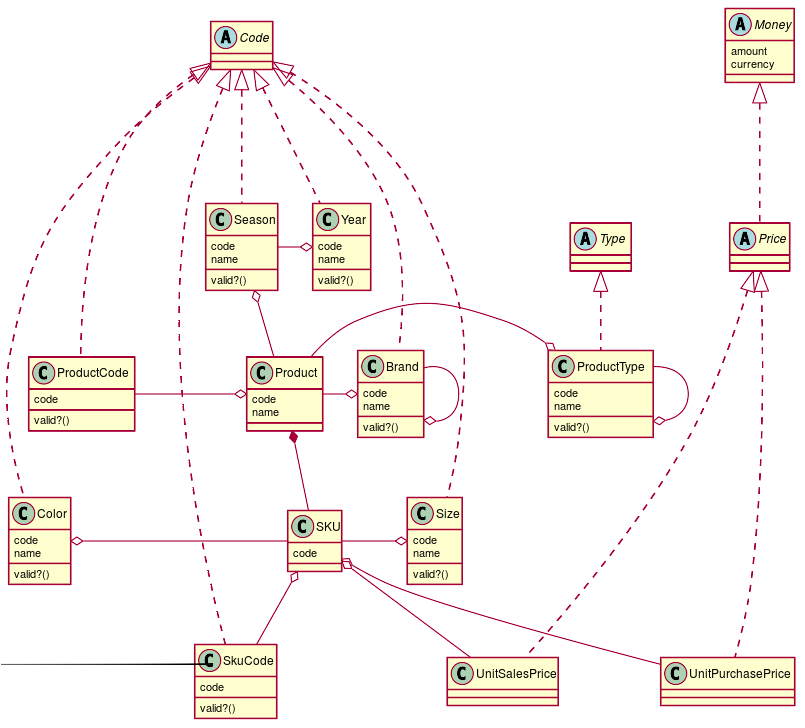
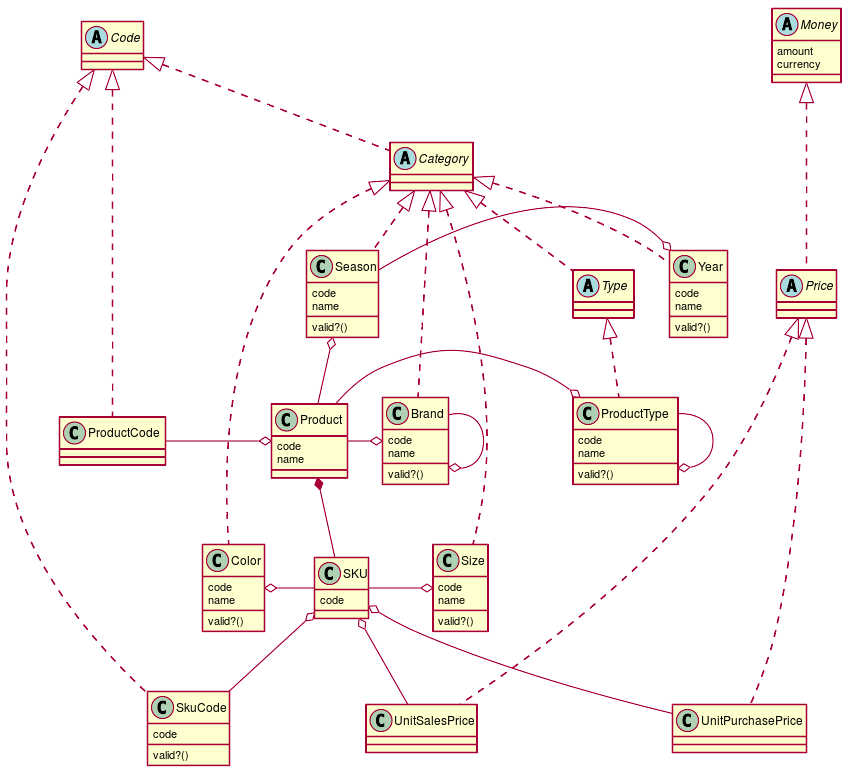
アパレル業務における商品設計 #EFROR-77
・分類種別値オブジェクト導入

diff --git a/spec/factories/sales_modeling_type3_category_classes.rb b/spec/factories/sales_modeling_type3_category_classes.rb
@@ -1,26 +1,26 @@
 FactoryGirl.define do
   factory :year_category_class, class: 'SalesModeling::Type3::CategoryClass' do
-    code '1'
+    code SalesModeling::Type3::ValueObject::Year.new('', '').category_class_code
     name '年度'
   end
   factory :season_category_class, class: 'SalesModeling::Type3::CategoryClass' do
-    code '2'
+    code SalesModeling::Type3::ValueObject::Season.new('', '').category_class_code
     name 'シーズン'
   end
   factory :product_type_category_class, class: 'SalesModeling::Type3::CategoryClass' do
-    code '3'
+    code SalesModeling::Type3::ValueObject::ProductType.new('', '').category_class_code
     name '商品区分'
   end
   factory :brand_category_class, class: 'SalesModeling::Type3::CategoryClass' do
-    code '4'
+    code SalesModeling::Type3::ValueObject::Brand.new('', '').category_class_code
     name 'ブランド'
   end
   factory :color_category_class, class: 'SalesModeling::Type3::CategoryClass' do
-    code '5'
+    code SalesModeling::Type3::ValueObject::Color.new('', '').category_class_code
     name '色'
   end
   factory :size_category_class, class: 'SalesModeling::Type3::CategoryClass' do
-    code '6'
+    code SalesModeling::Type3::ValueObject::Size.new('', '').category_class_code
     name 'サイズ'
   end
 end

diff --git a/app/repos/sales_modeling/category_classes_repo.rb b/app/repos/sales_modeling/category_classes_repo.rb
@@ -1,13 +1,25 @@
+# frozen_string_literal: true
+
 module SalesModeling
   class CategoryClassesRepo
     include ::SalesModeling::Type3
 
     def self.select_by_category(category)
+      category_class_code = category.category_class_code
+
       category = SalesModeling::Type3::Category.where(
         code: category.code,
         name: category.name
       ).first_or_create
       category.save!
+
+      unless category_class_code.nil?
+        category_class = SalesModeling::Type3::CategoryClass.where(
+          code: category_class_code
+        ).first_or_create
+        category.update!(sales_modeling_type3_category_class: category_class)
+      end
+
       category
     end
   end

diff --git a/app/models/sales_modeling/type3/product.rb b/app/models/sales_modeling/type3/product.rb
@@ -51,7 +51,7 @@ class SalesModeling::Type3::Product < ApplicationRecord
     self.season_category = SalesModeling::CategoryClassesRepo.select_by_category(season)
 
     unless season_category.parent_category.nil?
-      year = season_category.parent_category
+      year = SalesModeling::Type3::ValueObject::Season.new(season_category.parent_category.code, season_category.parent_category.name)
       self.year_category = SalesModeling::CategoryClassesRepo.select_by_category(year)
     end
   end

diff --git a/app/models/sales_modeling/type3/value_object/season.rb b/app/models/sales_modeling/type3/value_object/season.rb
@@ -1,3 +1,8 @@
 class SalesModeling::Type3::ValueObject::Season
-  include SalesModeling::Code
+  include SalesModeling::Category
+  CATEGORY_CLASS_CODE = '2'
+
+  def category_class_code
+    CATEGORY_CLASS_CODE.rjust(CODE_LENGTH,'0')
+  end
 end

diff --git a/app/models/sales_modeling/type3/value_object/brand.rb b/app/models/sales_modeling/type3/value_object/brand.rb
@@ -1,3 +1,8 @@
 class SalesModeling::Type3::ValueObject::Brand
-  include SalesModeling::Code
+  include SalesModeling::Category
+  CATEGORY_CLASS_CODE = '4'
+
+  def category_class_code
+    CATEGORY_CLASS_CODE.rjust(CODE_LENGTH,'0')
+  end
 end

diff --git a/app/models/sales_modeling/type3/value_object/color.rb b/app/models/sales_modeling/type3/value_object/color.rb
@@ -1,3 +1,8 @@
 class SalesModeling::Type3::ValueObject::Color
-  include SalesModeling::Code
+  include SalesModeling::Category
+  CATEGORY_CLASS_CODE = '5'
+
+  def category_class_code
+    CATEGORY_CLASS_CODE.rjust(CODE_LENGTH,'0')
+  end
 end

diff --git a/app/models/sales_modeling/type3/value_object/size.rb b/app/models/sales_modeling/type3/value_object/size.rb
@@ -1,3 +1,8 @@
 class SalesModeling::Type3::ValueObject::Size
-  include SalesModeling::Code
+  include SalesModeling::Category
+  CATEGORY_CLASS_CODE = '6'
+
+  def category_class_code
+    CATEGORY_CLASS_CODE.rjust(CODE_LENGTH,'0')
+  end
 end

diff --git a/app/models/sales_modeling/type3/value_object/year.rb b/app/models/sales_modeling/type3/value_object/year.rb
@@ -1,3 +1,8 @@
 class SalesModeling::Type3::ValueObject::Year
-  include SalesModeling::Code
+  include SalesModeling::Category
+  CATEGORY_CLASS_CODE = '1'
+
+  def category_class_code
+    CATEGORY_CLASS_CODE.rjust(CODE_LENGTH,'0')
+  end
 end

diff --git a/app/models/sales_modeling/type3/value_object/product_type.rb b/app/models/sales_modeling/type3/value_object/product_type.rb
@@ -1,3 +1,8 @@
 class SalesModeling::Type3::ValueObject::ProductType
   include SalesModeling::Type
+  CATEGORY_CLASS_CODE = '3'
+
+  def category_class_code
+    CATEGORY_CLASS_CODE.rjust(CODE_LENGTH,'0')
+  end
 end

diff --git a/app/models/concerns/sales_modeling/category.rb b/app/models/concerns/sales_modeling/category.rb
@@ -1,0 +1,10 @@
+module SalesModeling
+  module Category
+    include SalesModeling::Code
+    extend ActiveSupport::Concern
+    CATEGORY_CLASS_CODE = '0'
+
+    def category_class_code
+    end
+  end
+end

diff --git a/app/models/concerns/sales_modeling/type.rb b/app/models/concerns/sales_modeling/type.rb
@@ -1,5 +1,6 @@
 module SalesModeling
   module Type
+    include SalesModeling::Category
     extend ActiveSupport::Concern
     attr_reader :code, :name
     CODE_LENGTH = 2

diff --git a/docs/dev/sales_modeling/type3_product_.md b/docs/dev/sales_modeling/type3_product_.md
@@ -13,27 +13,27 @@ SalesModeling
 + 同じ商品でも「サイズ」と「カラー」はSKU（ストックキーピングユニット）として管理することが多い
 ### 品番で管理
   
-|年度   |       | シーズン |    |
-|:----:|:----: |:----:   |:----:|
-|     | 2017 |         |春夏物||
-|     |      |         |秋冬物|
-|     | 2018 |         |春夏物||
-|     |      |         |秋冬物|
+|年度   | シーズン |
+|:----:|:----: |
+| 2017 | 春夏物|
+|      | 秋冬物|
+| 2018 | 春夏物|
+|      | 秋冬物|
   
-|商品区分  |    |    |
+|商品区分     |    |
 |:----:   |:----:|:----:|
-|         | カジュアル  |Tシャツ|
-|         |           |ジャケット|
-|         |           |...|
+|カジュアル  |Tシャツ|
+|          |ジャケット|
+|          |...|
   
   
-|ブランド  |    |    |
-|:----:   |:----:|:----:|
-|         | X  |X1|
-|         |    |X2|
-|         |    |X3|
-|         | Y  |Y1|
-|         |    |Y2|
+|ブランド  |    |
+|:----:   |:----:|
+| X  |X1|
+|    |X2|
+|    |X3|
+| Y  |Y1|
+|    |Y2|
   
 ### SKUで管理
   
@@ -46,15 +46,15 @@ SalesModeling
 ## 分析モデル
   
 
-![](assets/0f28a17f695955efdbee3d6cf0374be10.png?0.4970695549671291)  
+![](./assets/0f28a17f695955efdbee3d6cf0374be10.png?0.25874433291978494)  
 ## 設計モデル
   
 
-![](assets/0f28a17f695955efdbee3d6cf0374be11.png?0.7919955678325385)  
+![](./assets/0f28a17f695955efdbee3d6cf0374be11.png?0.9651566997198098)  
 ## ERモデル
   
 
-![](assets/0f28a17f695955efdbee3d6cf0374be12.png?0.1209427775794274)  
+![](./assets/0f28a17f695955efdbee3d6cf0374be12.png?0.939262386945346)  
 `SKU`
 ```rb
 # frozen_string_literal: true
@@ -123,7 +123,7 @@ class SalesModeling::Type3::Sku < ApplicationRecord
   
   def color=(color)
     color = SalesModeling::Type3::ValueObject::Color.new(color.code, color.name)
-    self.color_category = SalesModeling::CategorysRepo.select_by_category(color)
+    self.color_category = SalesModeling::CategoryClassesRepo.select_by_category(color)
   end
   
   def size
@@ -132,7 +132,7 @@ class SalesModeling::Type3::Sku < ApplicationRecord
   
   def size=(size)
     size = SalesModeling::Type3::ValueObject::Size.new(size.code, size.name)
-    self.size_category = SalesModeling::CategorysRepo.select_by_category(size)
+    self.size_category = SalesModeling::CategoryClassesRepo.select_by_category(size)
   end
 end
   
@@ -189,11 +189,11 @@ class SalesModeling::Type3::Product < ApplicationRecord
   
   def season=(season)
     season = SalesModeling::Type3::ValueObject::Season.new(season.code, season.name)
-    self.season_category = SalesModeling::CategorysRepo.select_by_category(season)
+    self.season_category = SalesModeling::CategoryClassesRepo.select_by_category(season)
   
     unless season_category.parent_category.nil?
-      year = season_category.parent_category
-      self.year_category = SalesModeling::CategorysRepo.select_by_category(year)
+      year = SalesModeling::Type3::ValueObject::Season.new(season_category.parent_category.code, season_category.parent_category.name)
+      self.year_category = SalesModeling::CategoryClassesRepo.select_by_category(year)
     end
   end
   
@@ -203,7 +203,7 @@ class SalesModeling::Type3::Product < ApplicationRecord
   
   def type=(type)
     type = SalesModeling::Type3::ValueObject::ProductType.new(type.code, type.name)
-    self.product_type_category = SalesModeling::CategorysRepo.select_by_category(type)
+    self.product_type_category = SalesModeling::CategoryClassesRepo.select_by_category(type)
   end
   
   def brand
@@ -212,7 +212,7 @@ class SalesModeling::Type3::Product < ApplicationRecord
   
   def brand=(brand)
     brand = SalesModeling::Type3::ValueObject::Brand.new(brand.code, brand.name)
-    self.brand_category = SalesModeling::CategorysRepo.select_by_category(brand)
+    self.brand_category = SalesModeling::CategoryClassesRepo.select_by_category(brand)
   end
 end
   
@@ -301,25 +301,45 @@ end
 `Year`
 ```rb
 class SalesModeling::Type3::ValueObject::Year
-  include SalesModeling::Code
+  include SalesModeling::Category
+  CATEGORY_CLASS_CODE = '1'
+  
+  def category_class_code
+    CATEGORY_CLASS_CODE.rjust(CODE_LENGTH,'0')
+  end
 end
 ```  
 `Season`
 ```rb
 class SalesModeling::Type3::ValueObject::Season
-  include SalesModeling::Code
+  include SalesModeling::Category
+  CATEGORY_CLASS_CODE = '2'
+  
+  def category_class_code
+    CATEGORY_CLASS_CODE.rjust(CODE_LENGTH,'0')
+  end
 end
 ```  
 `ProductType`
 ```rb
 class SalesModeling::Type3::ValueObject::ProductType
   include SalesModeling::Type
+  CATEGORY_CLASS_CODE = '3'
+  
+  def category_class_code
+    CATEGORY_CLASS_CODE.rjust(CODE_LENGTH,'0')
+  end
 end
 ```  
 `Brand`
 ```rb
 class SalesModeling::Type3::ValueObject::Brand
-  include SalesModeling::Code
+  include SalesModeling::Category
+  CATEGORY_CLASS_CODE = '4'
+  
+  def category_class_code
+    CATEGORY_CLASS_CODE.rjust(CODE_LENGTH,'0')
+  end
 end
 ```  
 `SkuCode`
@@ -352,13 +372,23 @@ end
 `Color`
 ```rb
 class SalesModeling::Type3::ValueObject::Color
-  include SalesModeling::Code
+  include SalesModeling::Category
+  CATEGORY_CLASS_CODE = '5'
+  
+  def category_class_code
+    CATEGORY_CLASS_CODE.rjust(CODE_LENGTH,'0')
+  end
 end
 ```  
 `Size`
 ```rb
 class SalesModeling::Type3::ValueObject::Size
-  include SalesModeling::Code
+  include SalesModeling::Category
+  CATEGORY_CLASS_CODE = '6'
+  
+  def category_class_code
+    CATEGORY_CLASS_CODE.rjust(CODE_LENGTH,'0')
+  end
 end
 ```  
 `UnitPurchasePrice`
@@ -403,6 +433,7 @@ end
 ```rb
 module SalesModeling
   module Type
+    include SalesModeling::Category
     extend ActiveSupport::Concern
     attr_reader :code, :name
     CODE_LENGTH = 2
@@ -482,6 +513,20 @@ module SalesModeling
     end
   
     def -(other)
+    end
+  end
+end
+  
+```  
+`Category`
+```rb
+module SalesModeling
+  module Category
+    include SalesModeling::Code
+    extend ActiveSupport::Concern
+    CATEGORY_CLASS_CODE = '0'
+  
+    def category_class_code
     end
   end
 end
